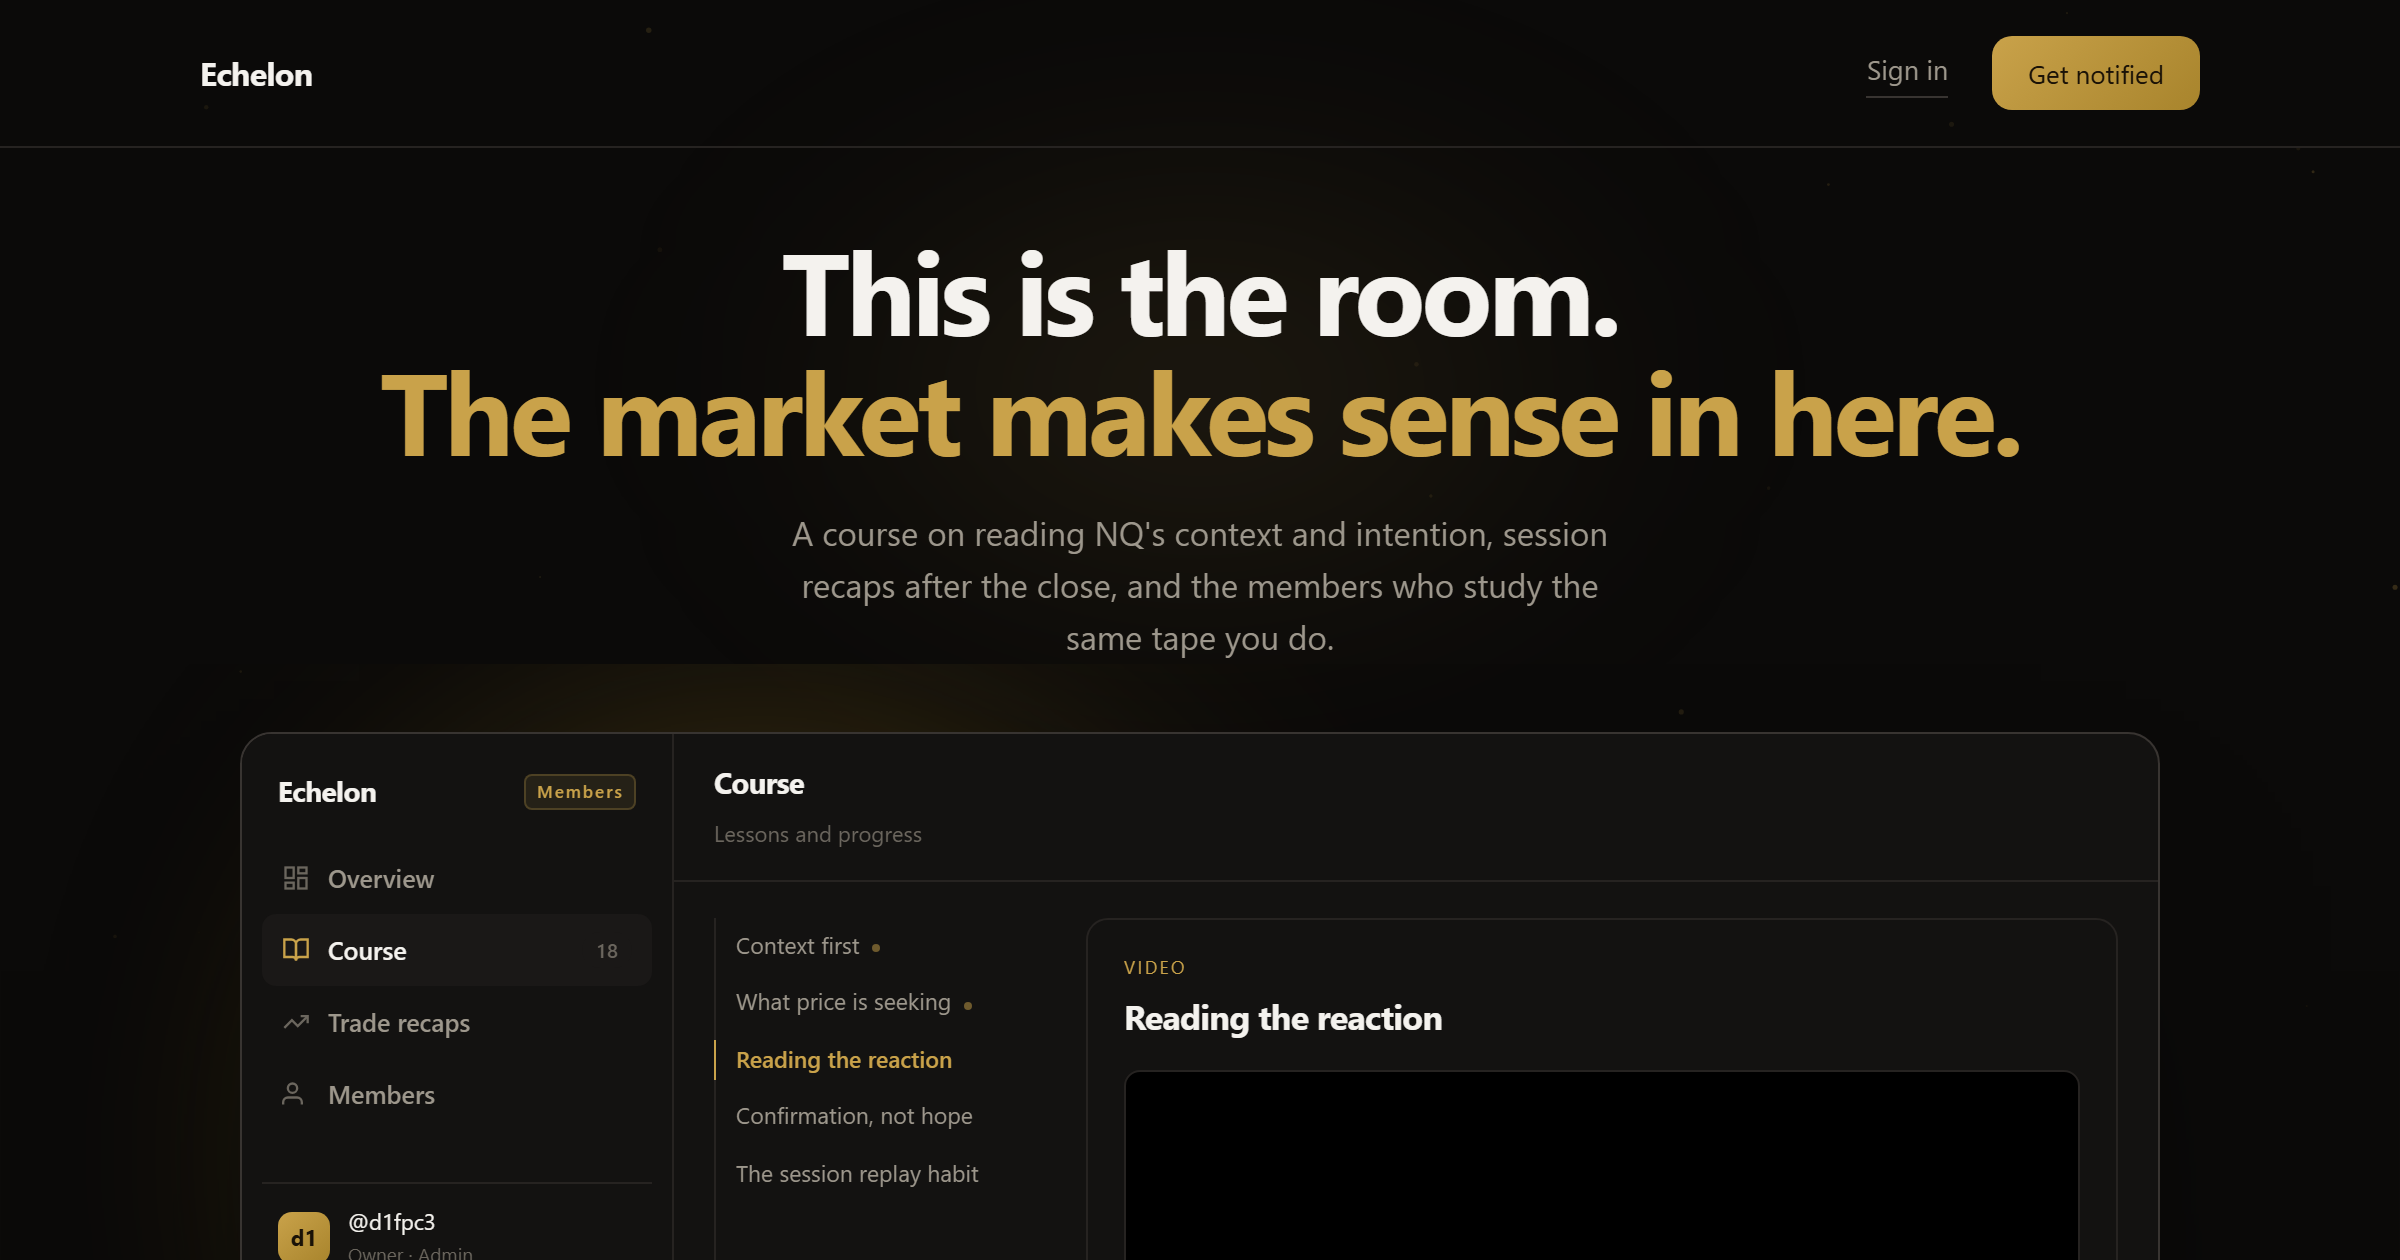
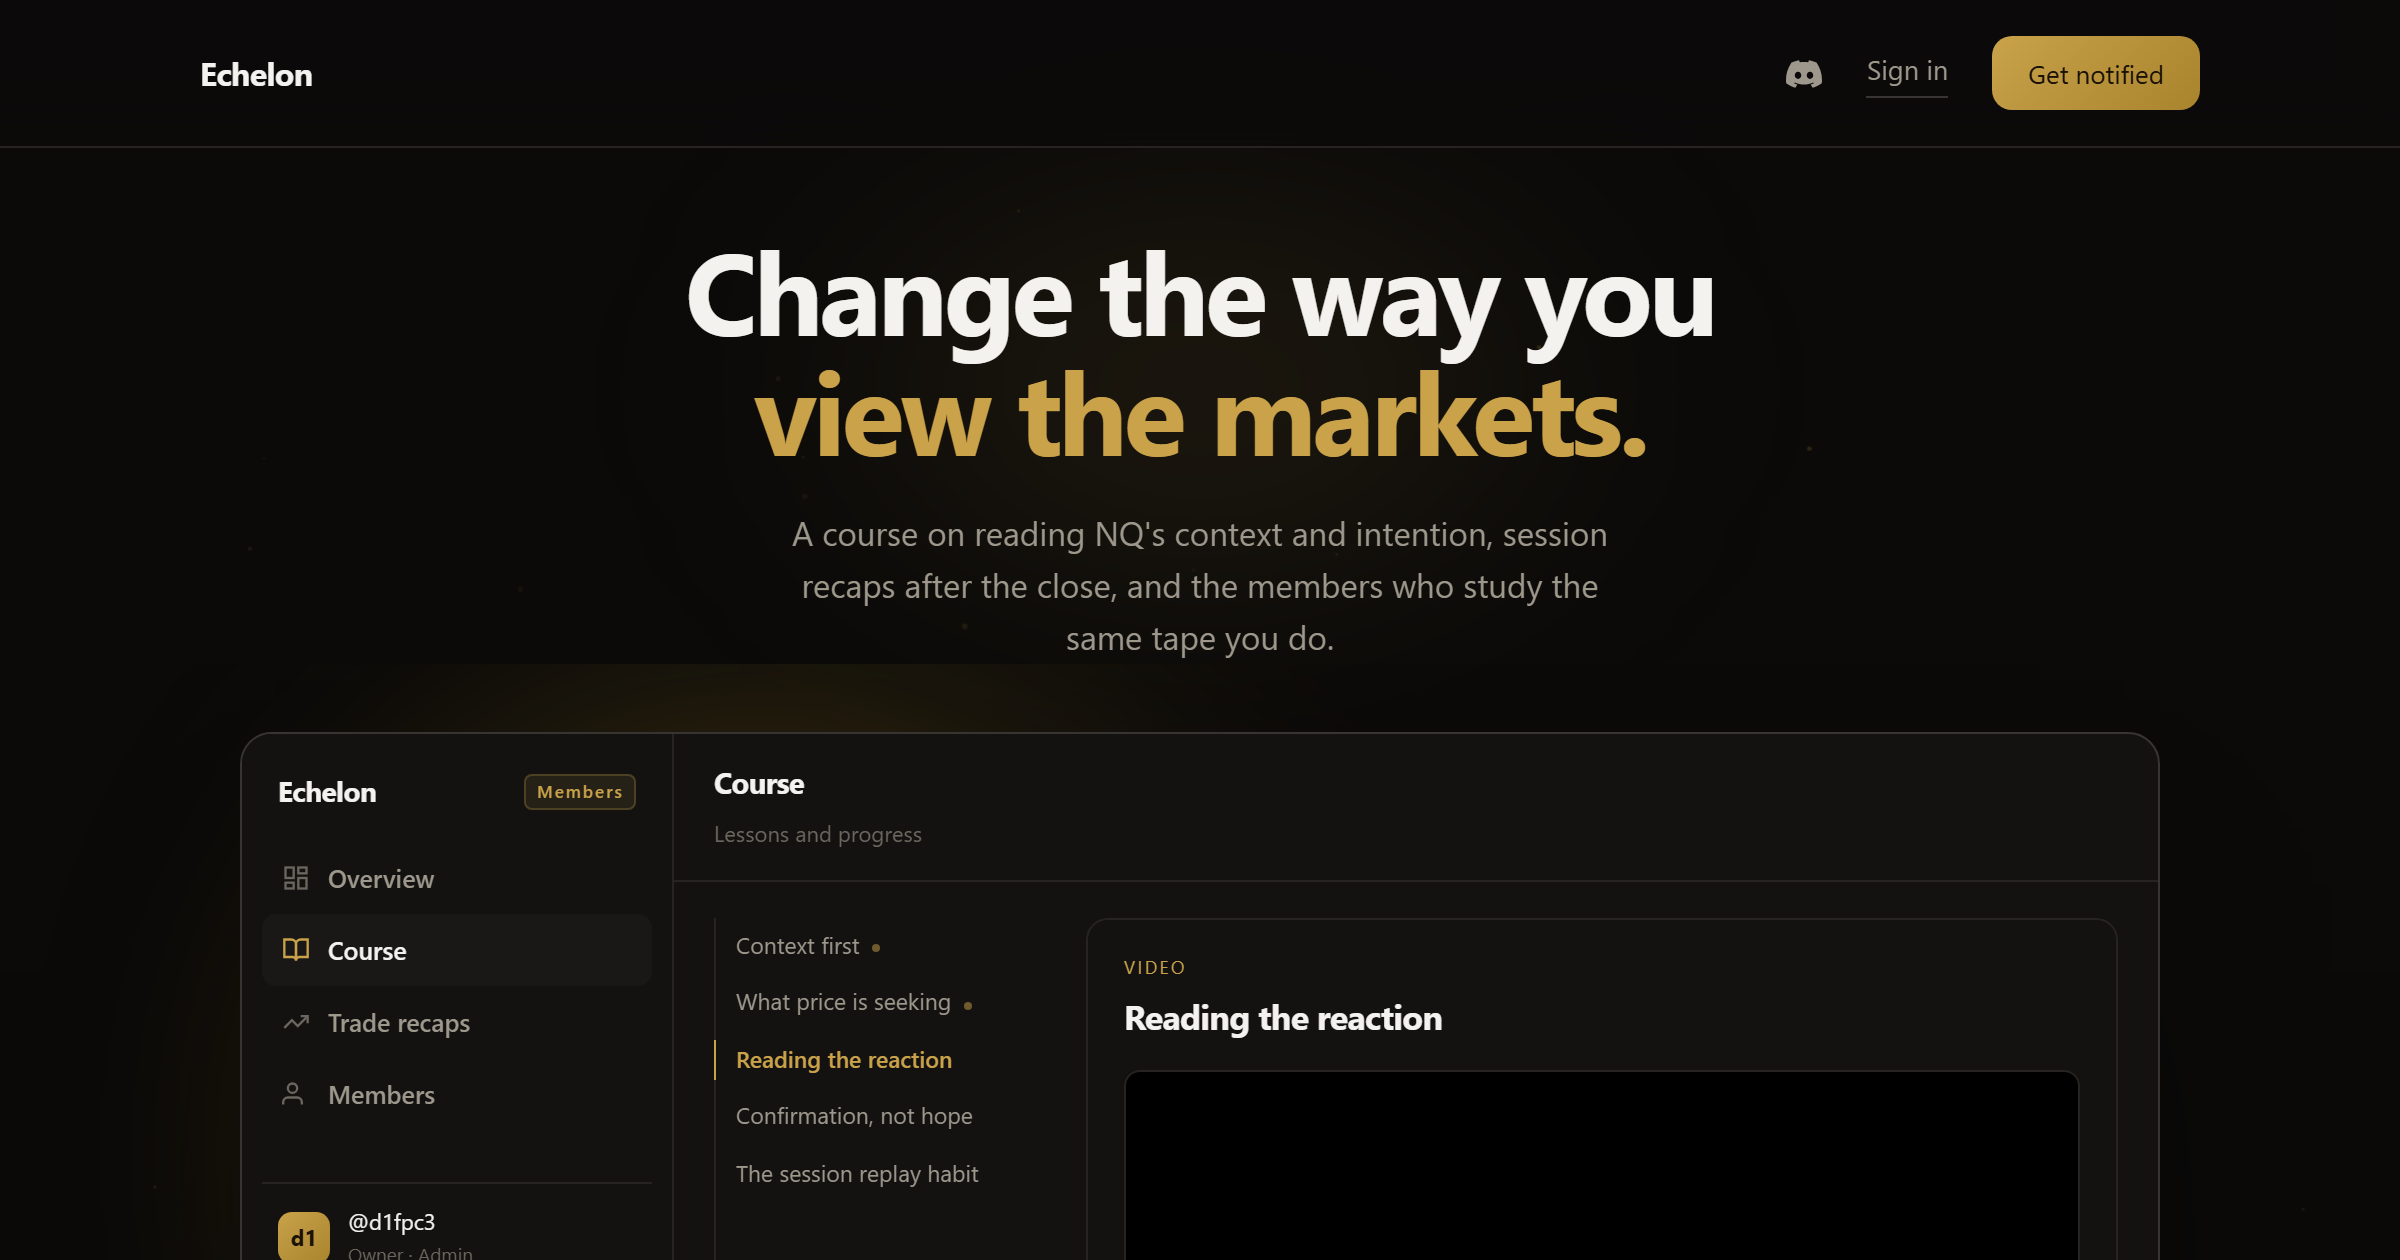
Hero headline: "Change the way you view the markets."
D1's wording; same white-then-gold two-line treatment. og.png
re-rendered to match.

Changed region(s): [[0.1562, 0.1857, 0.8438, 0.3714], [0.75, 0.031, 0.7812, 0.0619]]

diff --git a/index.html b/index.html
@@ -351,7 +351,7 @@
 
   <main>
     <div class="hero"><div class="col">
-      <h1>This is the room.<br><em>The market makes sense in here.</em></h1>
+      <h1>Change the way you<br><em>view the markets.</em></h1>
       <p class="sub">A course on reading NQ's context and intention, session recaps after the close, and the members who study the same tape you do.</p>
       <div class="act">
         <button class="btn" data-buy type="button">Get Echelon · $200 once</button>
